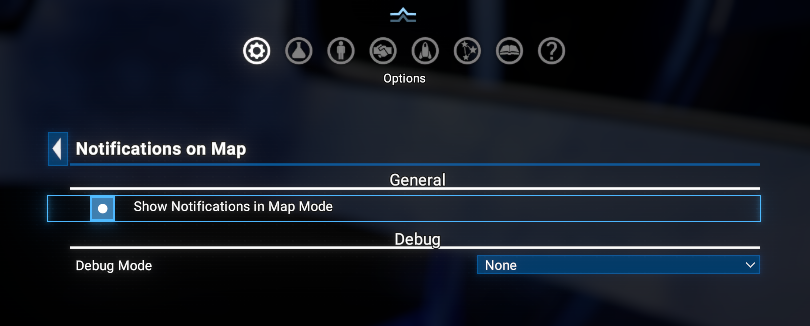
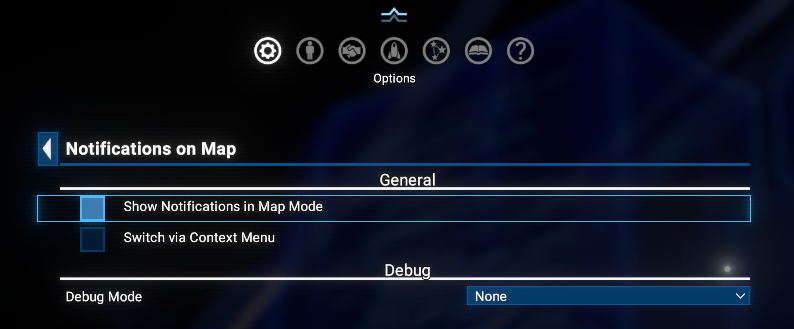
docs(readme): update for version x.00.03

diff --git a/README.md b/README.md
@@ -7,9 +7,9 @@ Makes the **Notification window** available while the **Map is open**. Normally,
 - **Notifications in map mode**: The notification window is shown while the map is open, just as it would be in normal flight view.
 - **It still made by Egosoft**: The mod does not create a new notification system, it simply "reveals" the existing one in map mode, by forcing it to be shown and adjusting its position to minimize interference with the map UI.
 - **Notifications still suppressed in other modes**: Notifications are only shown in map mode - they remain hidden in other modes (e.g. station view).
-- **Configurable**: The feature can be toggled on or off from **Options Menu > Extension options > Notifications on Map** without restarting the game.
+- **Configurable**: The feature can be toggled on or off as via **Options Menu > Extension options > Notifications on Map** as via **Context Menu**.
 - **Compatible with X4 8.00 and 9.00**, but currently published for 9.00 only.
-- **Can work with SWI** - please check instructions in [Forum tab](https://www.nexusmods.com/x4foundations/mods/2103?tab=forum) on Nexus mods.
+- **Can work with SWI** - please use with the [kuertee UI Extensions and HUD for SW Interworlds adoption mod](https://www.nexusmods.com/x4foundations/mods/2134).
 
 ## Requirements
 
@@ -34,6 +34,12 @@ The notification window will not appear in map mode until you enable it from the
 
 ![Notifications Window in Map Mode](docs/images/notifications_on_map.png)
 
+### Context Menu
+
+Simple press righ button in the map mode on free space in any sector and you will see the context menu with options to show or hide notifications in map mode.
+
+![Context Menu to Show Notifications](docs/images/context_menu_to_show.png)![Context Menu to Hide Notifications](docs/images/context_menu_to_hide.png)
+
 ## Extension Options
 
 Open **Options Menu > Extension options > Notifications on Map** to configure the mod.
@@ -51,6 +57,7 @@ Open **Options Menu > Extension options > Notifications on Map** to configure th
 ## Videos
 
 [Video demonstration of the Notifications on Map](https://www.youtube.com/watch?v=dl29qbqg4LQ)
+[Video demonstration of the switching via Context Menu](https://www.youtube.com/watch?v=5Kj8zFEGel4)
 
 ## Credits
 
@@ -64,6 +71,11 @@ Open **Options Menu > Extension options > Notifications on Map** to configure th
 - [SirNukes](https://next.nexusmods.com/profile/sirnukes?gameId=2659) - for the `Mod Support APIs` that power the UI hooks and options menu.
 
 ## Changelog
+
+### [8.00.03]/[9.00.03] - 2026-06-04
+
+- **Added**
+  - Context menu switching between showing and hiding notifications in map mode.
 
 ### [8.00.02]/[9.00.02] - 2026-05-10
 
